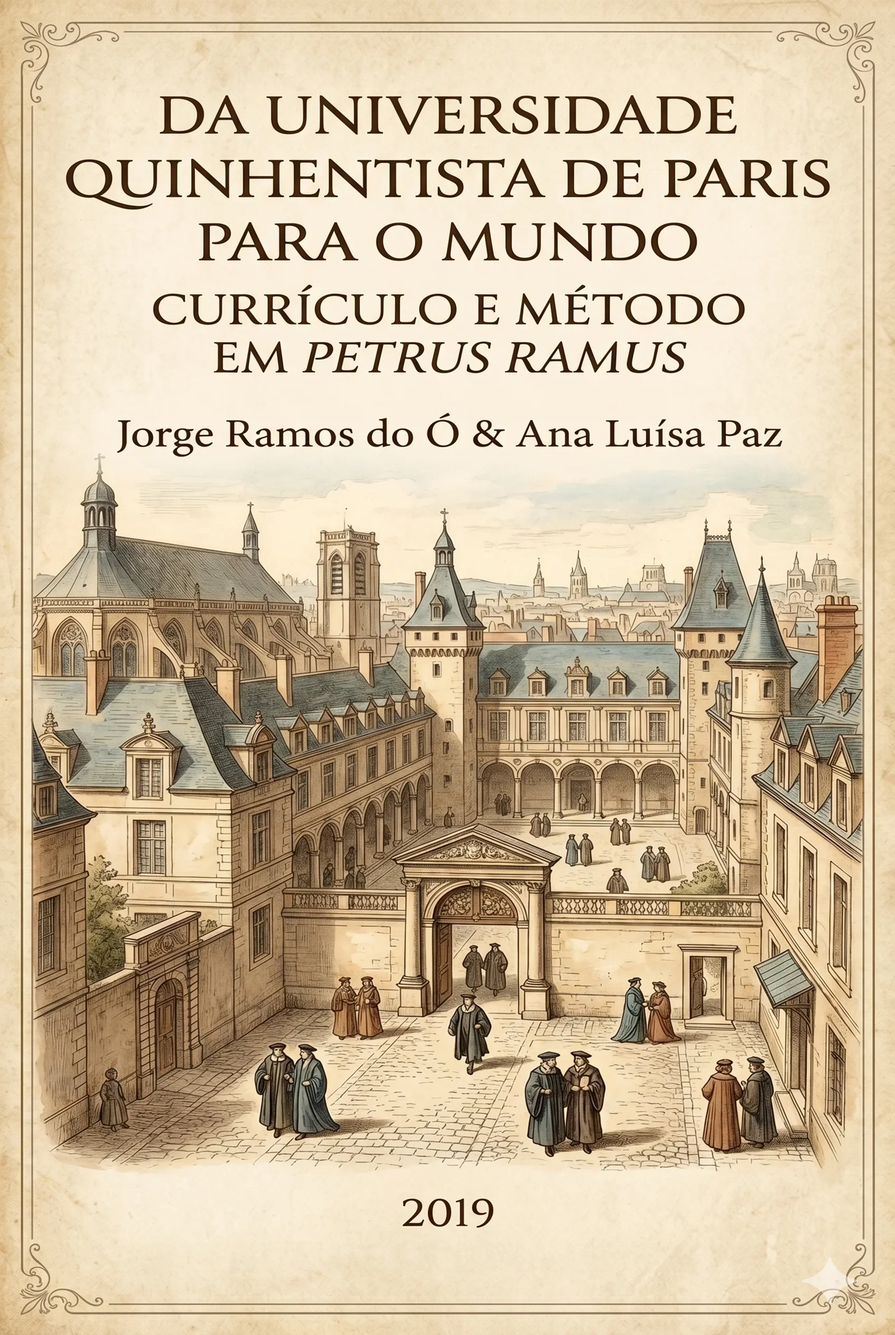
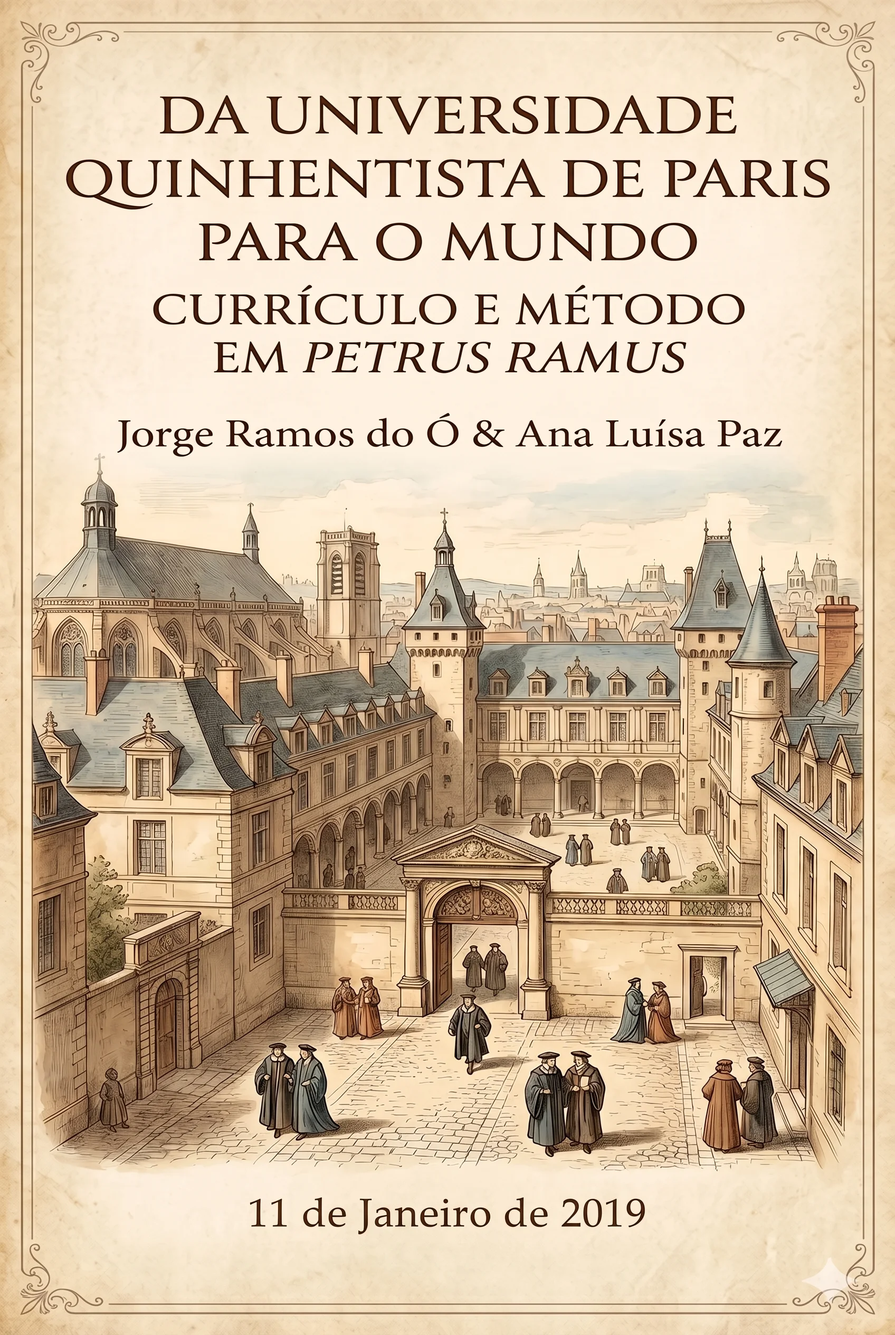
Corrigindo data de publicação original do artigo

diff --git a/content/articles/reformas-filosoficas-de-petrus-ramus.md b/content/articles/reformas-filosoficas-de-petrus-ramus.md
@@ -17,7 +17,7 @@ authors:
     affiliation: "AcademyGate Publishing"
 summary: "O artigo analisa as concepções filosóficas e reformistas de Petrus Ramus, representante da época do Renascimento. Como um dos mais destacados reformadores do Renascimento, ele deixou um profundo legado. O artigo assinala que Ramus, graças às reformas que realizou tanto na pedagogia quanto na filosofia, exerceu significativa influência sobre o desenvolvimento do pensamento científico. Seus méritos no campo do desenvolvimento eficaz da educação conferiram-lhe grande notoriedade. O artigo enfatiza que ele desempenhou papel importante na introdução de sistematicidade e ordem na educação. O objetivo principal de suas reformas consistia em demonstrar métodos eficazes de assimilação da ciência. Observa-se que os manuais de dialética, retórica e gramática, escritos por ele em colaboração com Omer Talon, reformularam a estrutura educacional da época do Renascimento. O artigo também reflete seu interesse pela matemática e pelas ciências naturais, o que expressava sua convicção de que o pensamento deve possuir uma estrutura ordenada. As concepções de Ramus sobre a linguagem fundamentavam a relação entre pensamento e expressão. Além desses méritos, o artigo afirma que ele também empreendeu ataques substanciais à filosofia aristotélica, especialmente às visões escolásticas rigorosas, cujas razões são analisadas em detalhe. Suas ideias não se limitaram à França, mas influenciaram o desenvolvimento de métodos modernos de ensino em diversos países europeus, incluindo Inglaterra e Alemanha. As reformas de P. Ramus também abriram caminho no pensamento de filósofos como Francis Bacon, René Descartes e Alexander Melville. O artigo examina a vida de Petrus Ramus, a essência do humanismo, a atividade de escritor de Ramus, sua posição contra a filosofia aristotélica, as inovações no método e na lógica no contexto do ambiente intelectual do Renascimento, investiga seu papel na pedagogia europeia e a influência das inovações filosóficas por ele criadas."
 
-date: 20-06-2026
+date: 15-12-2025
 
 UDC: 1(091):161/162  
 BBK: 87.3:87.4  
